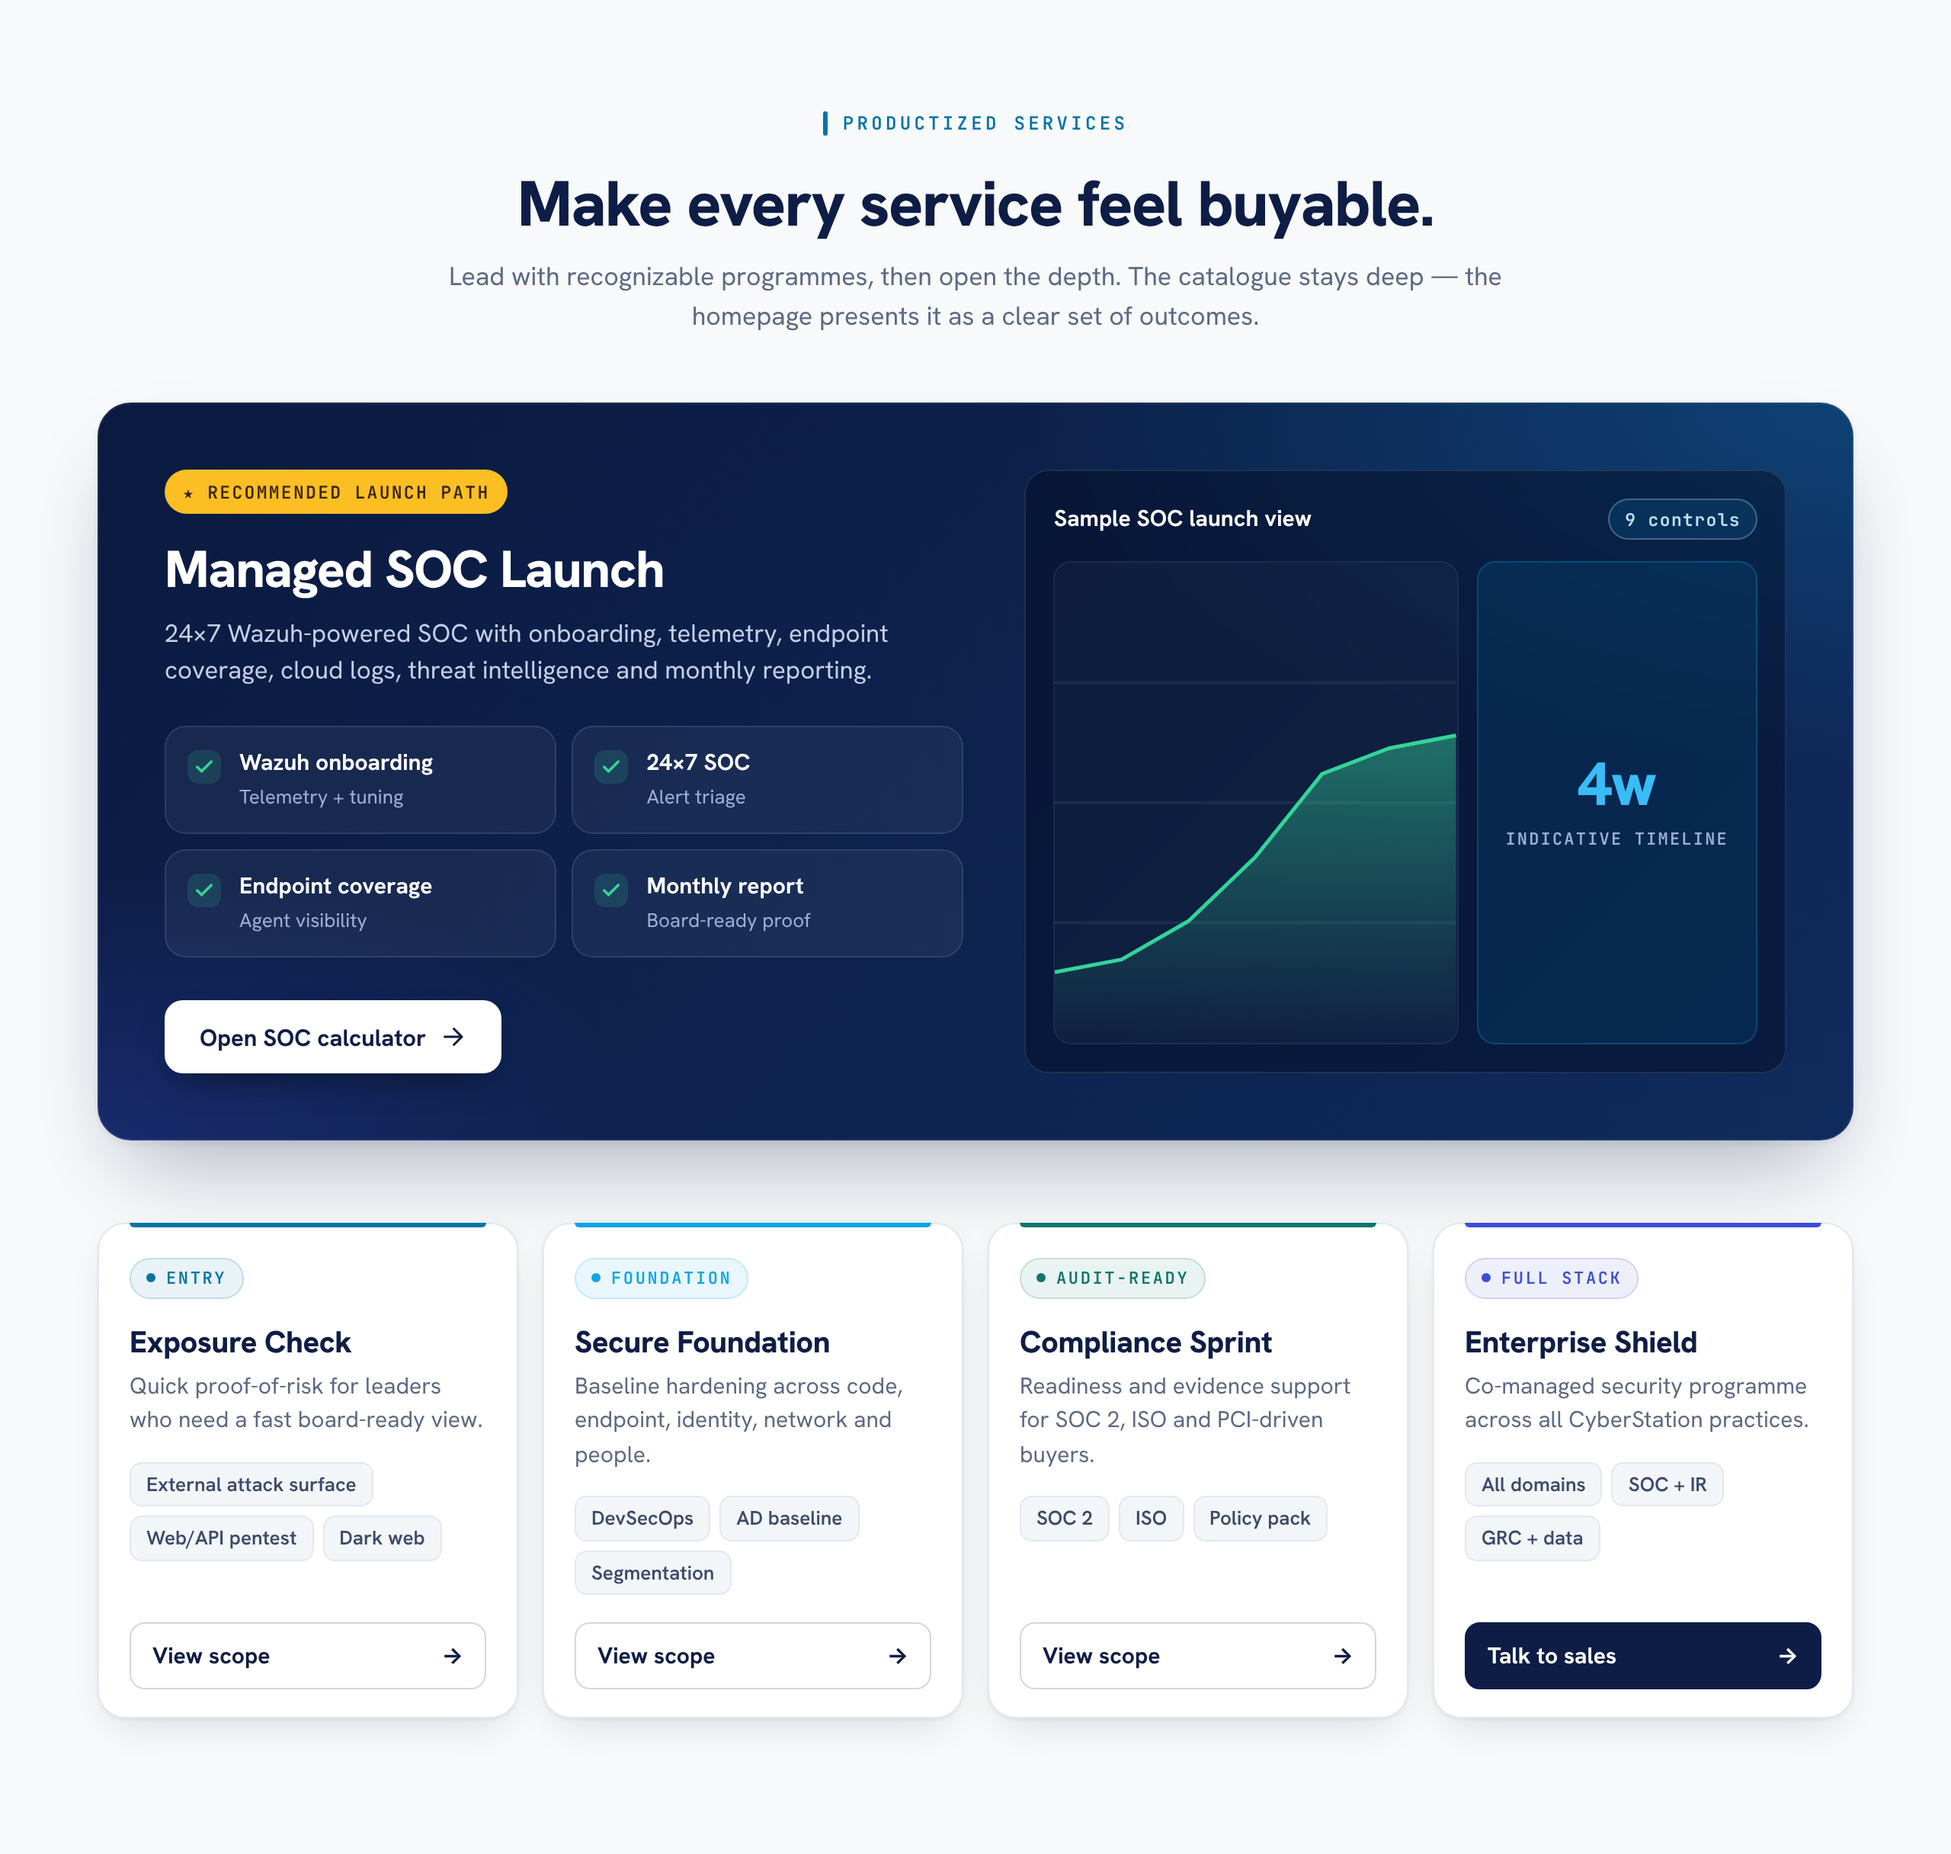
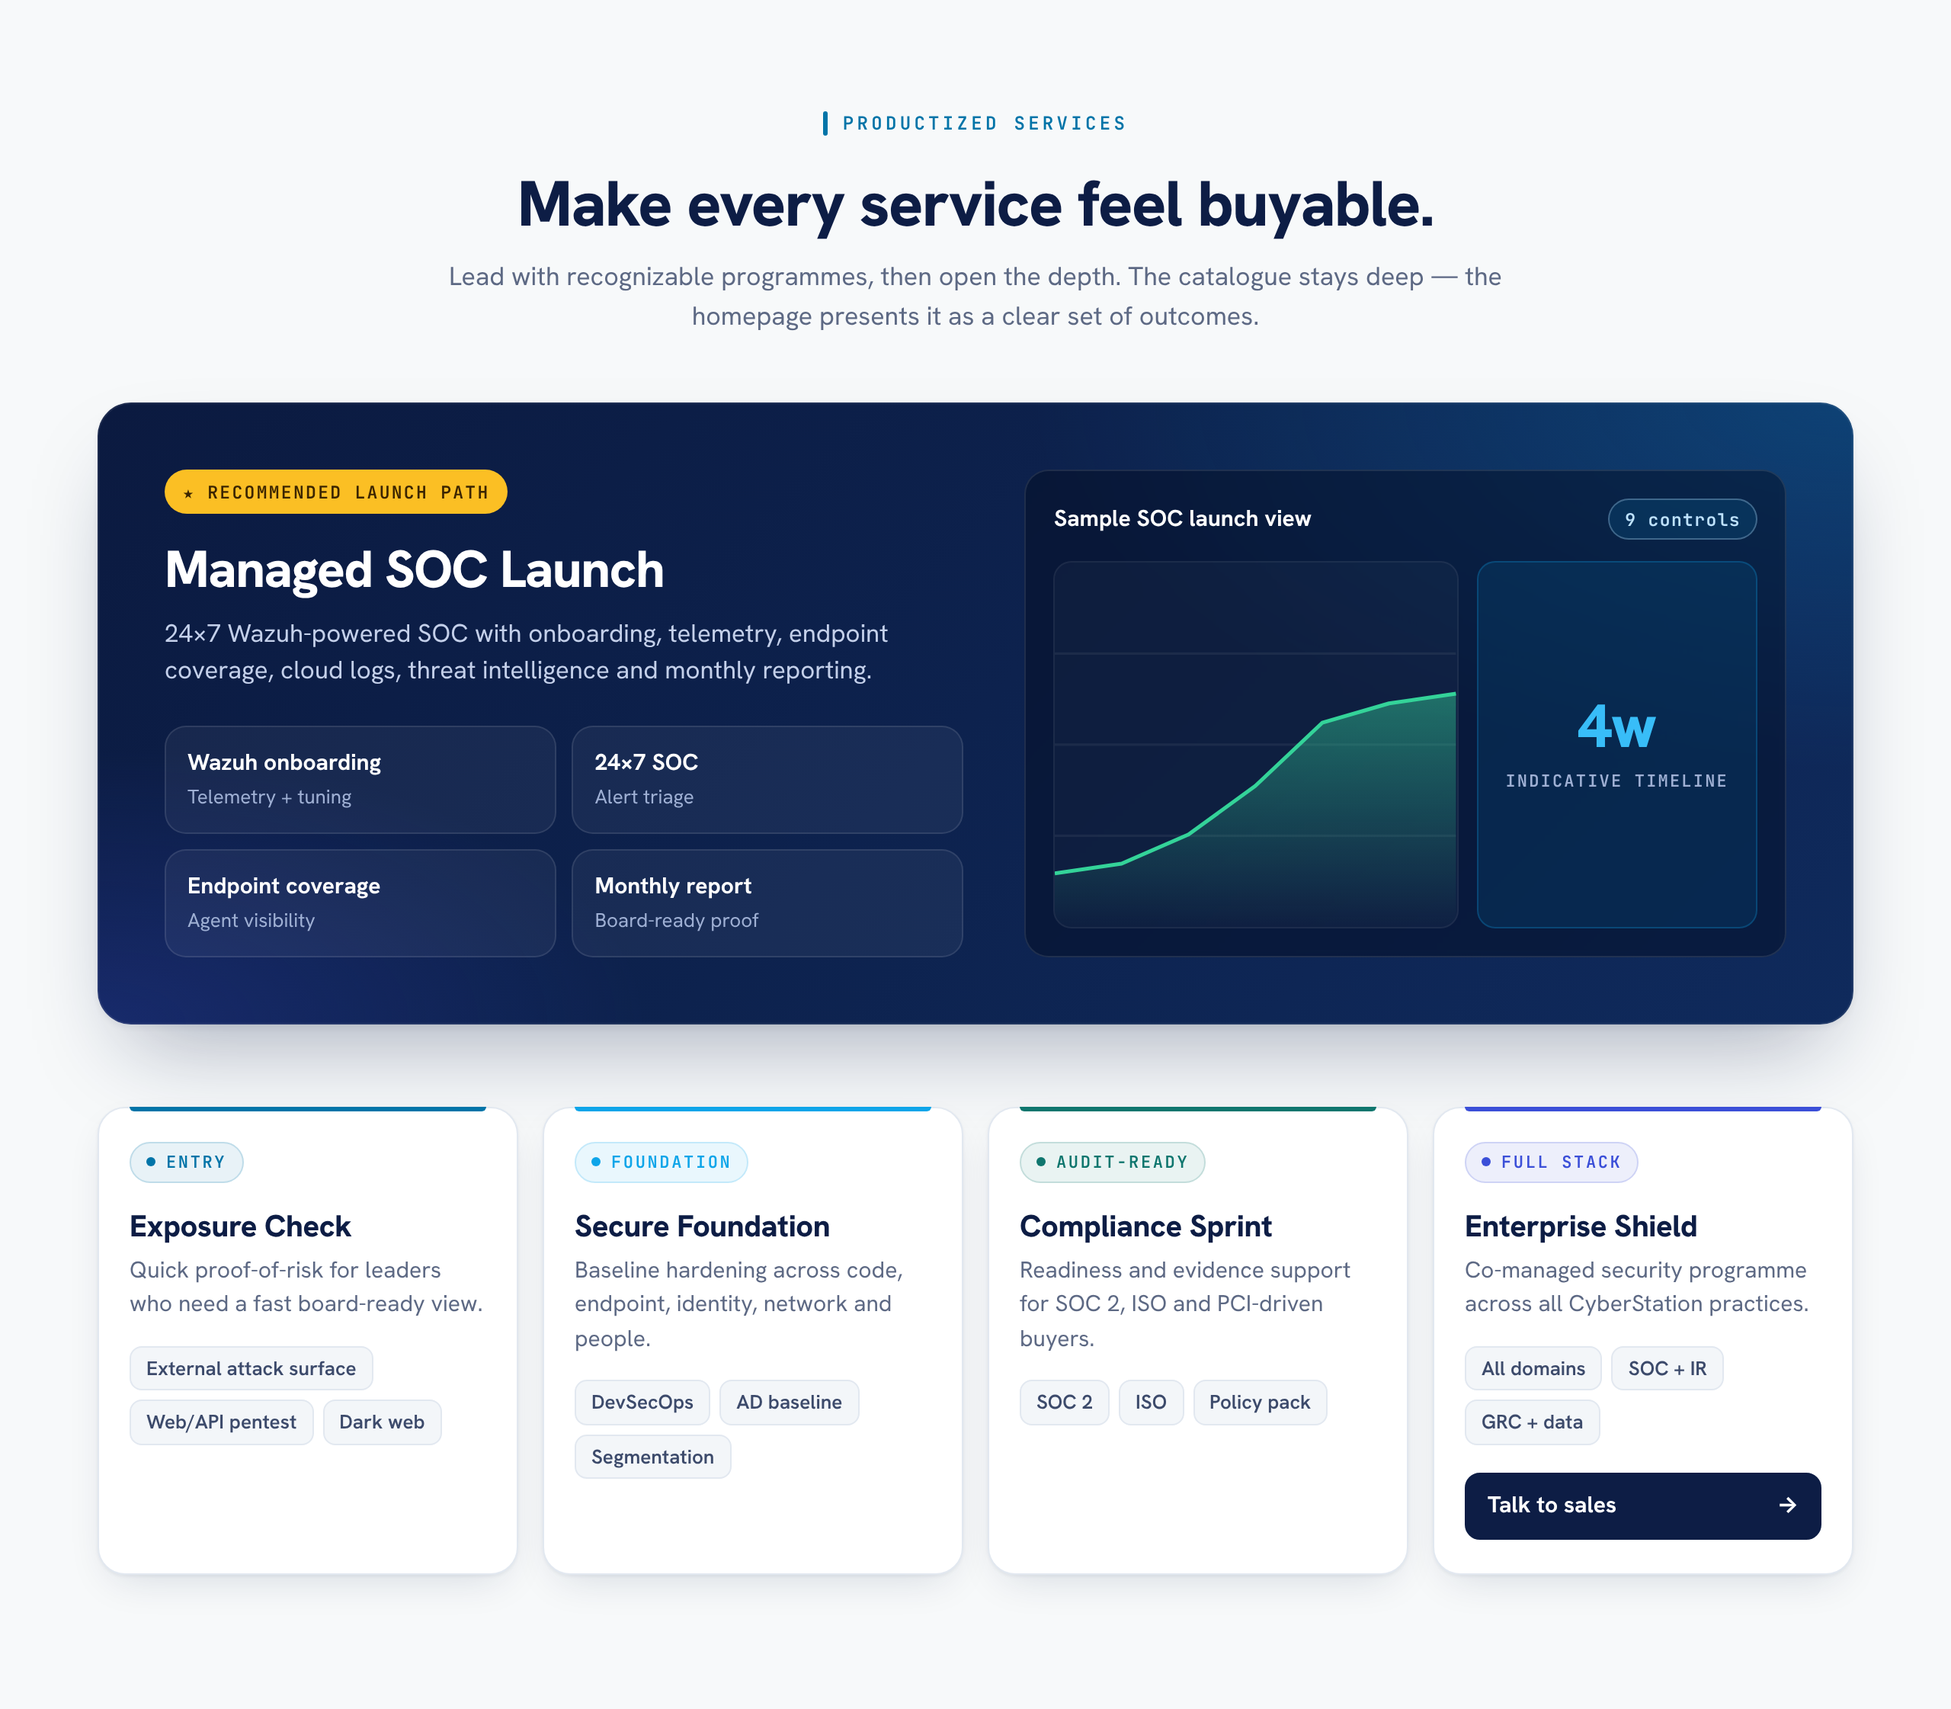
Match Productized services mockup to the visible live section
Remove the buttons the live site hides with data-pricing-hidden, the
pricing toggle and the added check marks.

Claude-Session: https://claude.ai/code/session_01TmP1dV2Z4mPWQ79Uatree8

diff --git a/productized-services/index.html b/productized-services/index.html
@@ -50,21 +50,7 @@
     font-family: var(--mono); font-size: 12px; color: var(--ink-3);
     padding: 10px 16px; border-bottom: 1px dashed var(--line-2); background: var(--surface);
   }
-  .switch { display: inline-flex; align-items: center; gap: 8px; cursor: pointer; user-select: none; }
-  .switch input { position: absolute; opacity: 0; width: 1px; height: 1px; }
-  .track {
-    width: 34px; height: 20px; border-radius: 999px; background: var(--line-2); position: relative; transition: background .15s;
-  }
-  .track::after {
-    content: ""; position: absolute; top: 2px; left: 2px; width: 16px; height: 16px; border-radius: 50%;
-    background: white; box-shadow: 0 1px 2px rgb(0 0 0 / .2); transition: transform .15s;
-  }
-  .switch input:checked + .track { background: var(--accent); }
-  .switch input:checked + .track::after { transform: translateX(14px); }
-  .switch input:focus-visible + .track { outline: 2px solid var(--accent); outline-offset: 2px; }
 
-  /* Live site hides these when pricing is off */
-  body.pricing-off [data-pricing-hidden] { display: none !important; }
 
   /* ---------- Section head ---------- */
   .section { padding: 72px 0 88px; }
@@ -111,25 +97,10 @@
     transition: background .15s, border-color .15s;
   }
   .tile:hover { background: rgb(255 255 255 / .08); border-color: rgb(255 255 255 / .18); }
-  .tile .ck {
-    flex: none; width: 22px; height: 22px; border-radius: 7px; display: grid; place-items: center;
-    background: rgb(52 211 153 / .15); color: var(--green); margin-top: 1px;
-  }
-  .tile .ck svg { width: 14px; height: 14px; }
   .tile b { display: block; font-size: 15px; font-weight: 700; color: white; line-height: 1.3; }
   .tile span { display: block; font-size: 13px; color: #9fb0d4; margin-top: 2px; }
   @media (max-width: 429px) { .tiles { grid-template-columns: 1fr; } }
 
-  .factions { margin-top: 28px; display: flex; flex-wrap: wrap; gap: 12px; align-items: center; }
-  .btn {
-    display: inline-flex; align-items: center; justify-content: center; gap: 8px; min-height: 48px; padding: 0 22px;
-    border-radius: 12px; font-weight: 700; font-size: 15.5px; cursor: pointer; border: 1px solid transparent;
-    transition: transform .15s, box-shadow .15s, background .15s;
-  }
-  .btn svg { width: 18px; height: 18px; }
-  .btn.light { background: white; color: var(--ink); box-shadow: 0 10px 24px -10px rgb(0 0 0 / .6); }
-  .btn.light:hover { transform: translateY(-1px); background: #f0f6ff; }
-  @media (max-width: 639px) { .factions .btn { width: 100%; } }
 
   /* Sample view */
   .sample {
@@ -200,7 +171,7 @@
     --c: var(--t0);
     position: relative; height: 100%; display: flex; flex-direction: column;
     background: var(--surface); border: 1px solid var(--line); border-radius: var(--radius);
-    padding: 22px 20px 18px; box-shadow: var(--shadow);
+    padding: 22px 20px 22px; box-shadow: var(--shadow);
     transition: transform .2s, box-shadow .2s, border-color .2s;
   }
   .card::before {
@@ -225,19 +196,17 @@
     font-size: 13px; font-weight: 600; color: var(--ink-2); padding: 4px 10px; border-radius: 8px;
     background: var(--surface-2); border: 1px solid var(--line);
   }
+
   .cfoot { margin-top: auto; padding-top: 18px; }
   .go {
     display: flex; align-items: center; justify-content: space-between; width: 100%; min-height: 44px;
-    margin-top: 0; padding: 0 14px; border-radius: 10px; cursor: pointer;
-    background: transparent; border: 1px solid var(--line-2); font-weight: 700; font-size: 15px; color: var(--ink);
-    transition: background .15s, border-color .15s, color .15s;
+    padding: 0 14px; border-radius: 10px; cursor: pointer;
+    background: var(--ink); color: white; border: 1px solid var(--ink); font-weight: 700; font-size: 15px;
+    transition: background .15s;
   }
+  .go:hover { background: #172a5e; }
   .go .arr { transition: transform .15s; }
-  .card:hover .go, .go:hover { border-color: var(--c); color: var(--c); }
   .go:hover .arr { transform: translateX(3px); }
-  .card[data-variant="enterprise"] .go { background: var(--ink); color: white; border-color: var(--ink); }
-  .card[data-variant="enterprise"] .go:hover { background: #172a5e; color: white; }
-  .spacer { height: 18px; }
 
   /* ---------- Toast ---------- */
   .toast {
@@ -257,12 +226,7 @@
 <body>
 
 <div class="mockbar">
-  <span>Mockup · Productized services · live content only, nothing added or removed</span>
-  <label class="switch">
-    <input type="checkbox" id="pricingToggle" checked>
-    <span class="track" aria-hidden="true"></span>
-    <span>Pricing buttons (<code>data-pricing-hidden</code>)</span>
-  </label>
+  <span>Mockup · Productized services · live visible content only, nothing added or removed</span>
 </div>
 
 <section class="section" id="programmes" aria-labelledby="programmes-title">
@@ -280,17 +244,11 @@
         <h3 id="soc-title">Managed SOC Launch</h3>
         <p class="lead">24×7 Wazuh-powered SOC with onboarding, telemetry, endpoint coverage, cloud logs, threat intelligence and monthly reporting.</p>
         <ul class="tiles">
-          <li class="tile"><span class="ck"><svg viewBox="0 0 24 24" fill="none" stroke="currentColor" stroke-width="3" stroke-linecap="round" stroke-linejoin="round" aria-hidden="true"><path d="M20 6 9 17l-5-5"/></svg></span><div><b>Wazuh onboarding</b><span>Telemetry + tuning</span></div></li>
-          <li class="tile"><span class="ck"><svg viewBox="0 0 24 24" fill="none" stroke="currentColor" stroke-width="3" stroke-linecap="round" stroke-linejoin="round" aria-hidden="true"><path d="M20 6 9 17l-5-5"/></svg></span><div><b>24×7 SOC</b><span>Alert triage</span></div></li>
-          <li class="tile"><span class="ck"><svg viewBox="0 0 24 24" fill="none" stroke="currentColor" stroke-width="3" stroke-linecap="round" stroke-linejoin="round" aria-hidden="true"><path d="M20 6 9 17l-5-5"/></svg></span><div><b>Endpoint coverage</b><span>Agent visibility</span></div></li>
-          <li class="tile"><span class="ck"><svg viewBox="0 0 24 24" fill="none" stroke="currentColor" stroke-width="3" stroke-linecap="round" stroke-linejoin="round" aria-hidden="true"><path d="M20 6 9 17l-5-5"/></svg></span><div><b>Monthly report</b><span>Board-ready proof</span></div></li>
+          <li class="tile"><div><b>Wazuh onboarding</b><span>Telemetry + tuning</span></div></li>
+          <li class="tile"><div><b>24×7 SOC</b><span>Alert triage</span></div></li>
+          <li class="tile"><div><b>Endpoint coverage</b><span>Agent visibility</span></div></li>
+          <li class="tile"><div><b>Monthly report</b><span>Board-ready proof</span></div></li>
         </ul>
-        <div class="factions" data-pricing-hidden>
-          <button type="button" class="btn light" data-action="calc">
-            Open SOC calculator
-            <svg viewBox="0 0 24 24" fill="none" stroke="currentColor" stroke-width="2" stroke-linecap="round" stroke-linejoin="round" aria-hidden="true"><path d="M5 12h14M13 5l7 7-7 7"/></svg>
-          </button>
-        </div>
       </div>
 
       <div class="sample" role="group" aria-label="Sample SOC launch view">
@@ -327,9 +285,6 @@
           <h3 id="pk1">Exposure Check</h3>
           <p>Quick proof-of-risk for leaders who need a fast board-ready view.</p>
           <ul class="ctags"><li>External attack surface</li><li>Web/API pentest</li><li>Dark web</li></ul>
-          <div class="cfoot" data-pricing-hidden>
-            <button type="button" class="go" data-action="order" data-id="exposure" aria-label="View scope: Exposure Check">View scope <span class="arr" aria-hidden="true">→</span></button>
-          </div>
         </article>
       </li>
       <li>
@@ -338,9 +293,6 @@
           <h3 id="pk2">Secure Foundation</h3>
           <p>Baseline hardening across code, endpoint, identity, network and people.</p>
           <ul class="ctags"><li>DevSecOps</li><li>AD baseline</li><li>Segmentation</li></ul>
-          <div class="cfoot" data-pricing-hidden>
-            <button type="button" class="go" data-action="order" data-id="foundation" aria-label="View scope: Secure Foundation">View scope <span class="arr" aria-hidden="true">→</span></button>
-          </div>
         </article>
       </li>
       <li>
@@ -349,9 +301,6 @@
           <h3 id="pk3">Compliance Sprint</h3>
           <p>Readiness and evidence support for SOC 2, ISO and PCI-driven buyers.</p>
           <ul class="ctags"><li>SOC 2</li><li>ISO</li><li>Policy pack</li></ul>
-          <div class="cfoot" data-pricing-hidden>
-            <button type="button" class="go" data-action="order" data-id="compliance" aria-label="View scope: Compliance Sprint">View scope <span class="arr" aria-hidden="true">→</span></button>
-          </div>
         </article>
       </li>
       <li>
@@ -373,10 +322,6 @@
 
 <script>
 (() => {
-  /* Pricing toggle mirrors the live site's data-pricing-hidden behaviour */
-  const toggle = document.getElementById('pricingToggle');
-  const apply = () => document.body.classList.toggle('pricing-off', !toggle.checked);
-  toggle.addEventListener('change', apply); apply();
 
   /* Button actions map to the live site's existing handlers */
   const toast = document.getElementById('toast');
@@ -386,8 +331,6 @@
     const b = e.target.closest('[data-action]');
     if (!b) return;
     const a = b.dataset.action, id = b.dataset.id;
-    if (a === 'calc') say('Live handler: <code>applyPackage(\'soc\', true); route(\'calc\')</code>');
-    if (a === 'order') say(`Live handler: <code>startOrder('${id}')</code>`);
     if (a === 'call') say(`Live handler: <code>startCall('${id}')</code>`);
   });
 

diff --git a/productized-services/README.md b/productized-services/README.md
@@ -1,16 +1,11 @@
 # "Productized services" section redesign
 
 Interactive HTML mockup (no build step). Open `index.html` in a browser.
-**Content rule:** every word comes from the live `#programmes` section. Nothing was added or removed.
-
-The toolbar switch reproduces the live site's `data-pricing-hidden` behaviour. On the live site, the
-"Open SOC calculator" and three "View scope" buttons are currently hidden by that flag.
+**Content rule:** only what visitors see in the live `#programmes` section. Nothing added or removed.
 
 ## Screenshots
 
-| Desktop | Desktop, pricing buttons hidden (live state) |
-|---|---|
-| ![Desktop](screenshots/1-desktop.png) | ![Pricing off](screenshots/2-desktop-pricing-off.png) |
+![Desktop](screenshots/1-desktop.png)
 
 | Tablet | Phone |
 |---|---|
@@ -19,28 +14,26 @@ The toolbar switch reproduces the live site's `data-pricing-hidden` behaviour. O
 ## What changed (layout and styling only)
 
 1. **Recommended programme is a full-width card.** Managed SOC Launch spans the row: text, tiles and button on the left, the sample view on the right. The four other programmes are no longer squeezed into a 2×2 block beside it.
-2. **The four programmes share one card structure:** pill, title, description, tags, then the button pinned to the bottom so all four line up.
+2. **The four programmes share one card structure:** pill, title, description, tags.
 3. **Colour per programme.** The live `data-home-card-tone` 0–3 values each get one colour (top bar and pill).
 4. **Readable tags.** The live source text is already sentence case, so the CSS no longer forces uppercase, and tags are 13px chips instead of tiny monospace.
-5. **SOC tiles get check icons**, so they read as what's included rather than as plain boxes.
 6. **The 4w timeline and "9 controls" are given more weight** in the sample view.
-7. **Enterprise Shield's "Talk to sales" is a filled button.** It's the only button that's always visible, and it's the route for custom requirements.
+7. **Enterprise Shield's "Talk to sales" is a filled button**, since it's the section's only visible action.
 8. **Phone layout:**
    - The four programmes become a swipeable row with the next card peeking in, plus dot navigation.
    - Section height drops from about 2,000px to about 1,700px.
    - Feature tiles stack in one column below 430px.
-   - The SOC button is full width.
 9. **Accessibility:**
-   - Each button's screen-reader name includes the package (e.g. "View scope: Exposure Check").
+   - The "Talk to sales" button's screen-reader name includes the package ("Talk to sales: Enterprise Shield").
    - The decorative chart is hidden from screen readers (`aria-hidden`).
    - Dots are labelled buttons.
    - Focus outlines are visible.
    - Motion is switched off for visitors who ask for reduced motion.
-10. **Button handlers are unchanged:** `applyPackage('soc',true); route('calc')`, `startOrder('exposure'|'foundation'|'compliance')`, `startCall('enterprise')`. In the mockup they show a message naming the handler.
+10. **"Talk to sales" keeps its live handler** `startCall('enterprise')`. In the mockup it shows a message naming the handler.
 
 ## Open points (content decisions, not changed here)
 
 - The heading and subtitle read like an internal design brief, not copy for buyers.
 - "9 controls" conflicts with the "What we do" section, which lists MDR with 1 control.
-- With pricing hidden, three programme cards have no action at all.
+- Three programme cards have no action at all. The page code contains "Open SOC calculator" and "View scope" buttons, but the live site hides them with `data-pricing-hidden`. They're left out here.
 - The Entry → Foundation → Audit-ready → Full stack labels suggest a sequence. Confirm whether to show it as steps.
